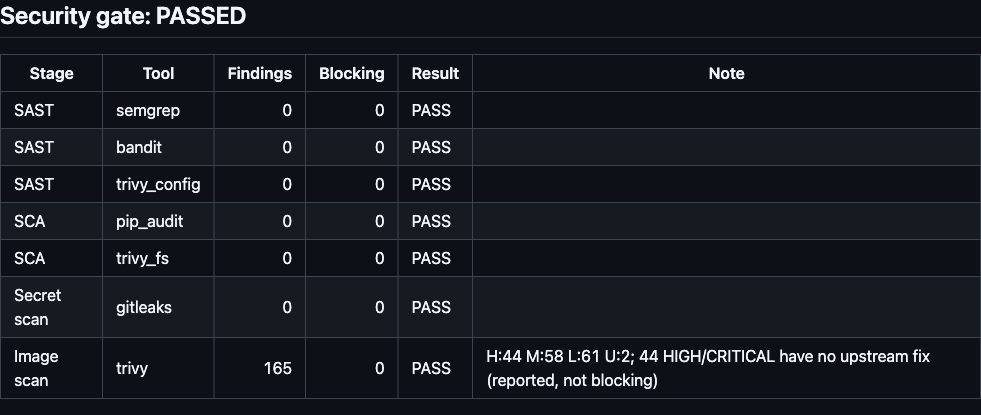
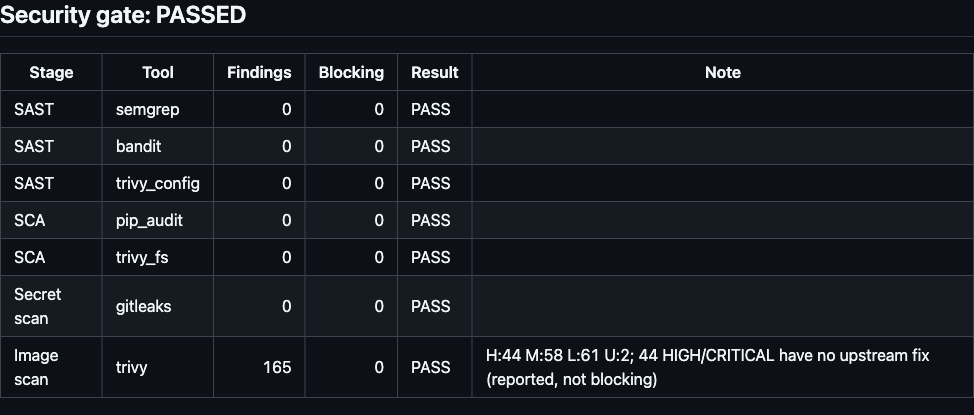
Session 17: retake gate/push summary and deploy log screenshots from the live Actions UI [skip ci]

diff --git a/DevOps/17-devsecops/README.md b/DevOps/17-devsecops/README.md
@@ -463,6 +463,10 @@ pushed ghcr.io/astro-dude/s17-devsecops-app@sha256:b52f45a32d7e5a5c616f530b9a03e
 `b52f45a3…` is the digest of the manifest in the registry. They are different
 hashes of the same image, and Kubernetes pulls by the second one.)
 
+Job summary written by the push job (live Actions UI, below the Docker Build and Security Gate summaries):
+
+![push summary](screenshots/run-green-push-summary.png)
+
 ![GHCR package](screenshots/ghcr-package.png)
 
 The package inherited the repository's **public** visibility, so its tags can be
@@ -544,7 +548,7 @@ and that hostile input still gets a 400 in the deployed build. The PSS probe
 shows the namespace really enforces `restricted`. The hardened Deployment was
 admitted, and a privileged pod was refused.
 
-Final green run: all ten stages passed, and the deploy job's steps:
+Final green run: all ten stages passed. The second screenshot is the deploy job with the "Verify deployment" step log expanded:
 
 ![final green run](screenshots/run-green-overview.png)
 ![deploy job](screenshots/run-green-deploy-job.png)
@@ -709,15 +713,12 @@ following run, 37632031493, is the final green one. The key was fake and already
 in history, so nothing new was exposed. Had it been real, the scanner would have
 stopped me from re-publishing it.
 
-> About the screenshots: the failed-run pages (`run-failed-gate-*`,
-> `run-history-leak-gate-summary`) were taken from the live GitHub UI while
-> signed in. After a machine reboot, the browser's GitHub session was gone, and
-> GitHub only shows job summaries and logs to signed-in users. So
-> `run-green-gate-summary.png` and `run-evidence-leak-gate-summary.png` show
-> GitHub's rendering of the **downloaded `security-gate-result` artifacts**
-> committed under [`evidence/gate-results/`](evidence/gate-results/). This is the
-> same markdown the gate wrote to the job summary. The green-run overview,
-> deploy-job and artifact screenshots are the public run pages.
+> All GitHub screenshots are from the live Actions UI while signed in
+> (`run-green-overview`, `run-green-deploy-job`, `run-green-gate-summary`,
+> `run-green-push-summary`, `run-green-artifacts`, the three `run-failed-gate-*`,
+> `run-history-leak-gate-summary` and `run-evidence-leak-gate-summary`). The same
+> gate summaries are also kept as files under
+> [`evidence/gate-results/`](evidence/gate-results/), because workflow artifacts expire.
 
 ---
 
